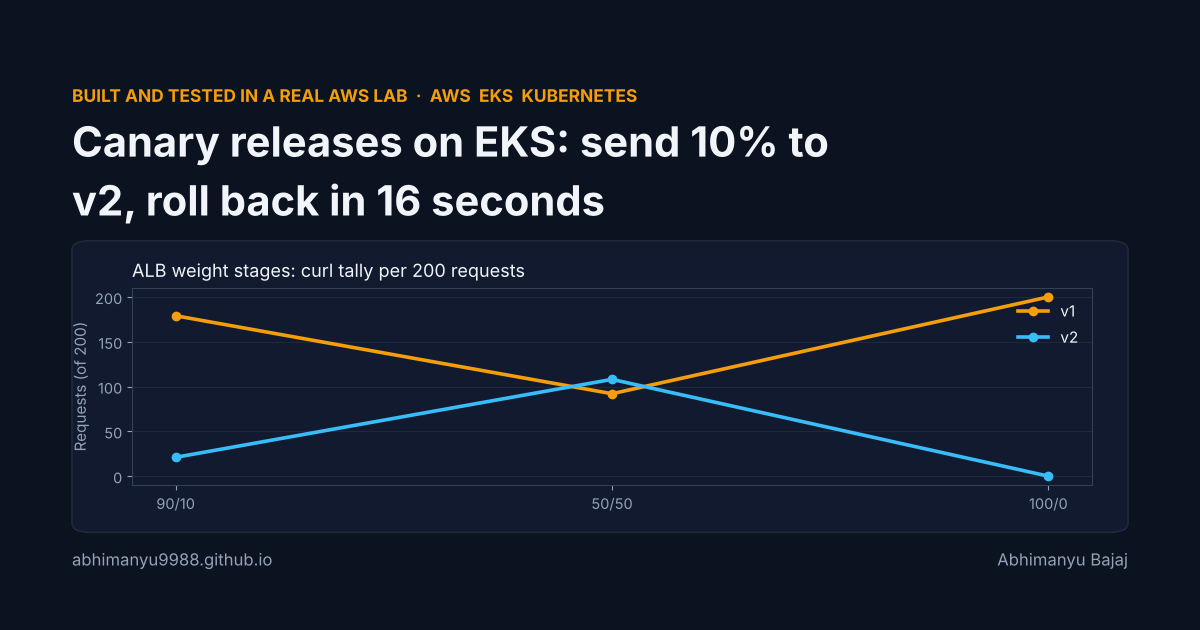
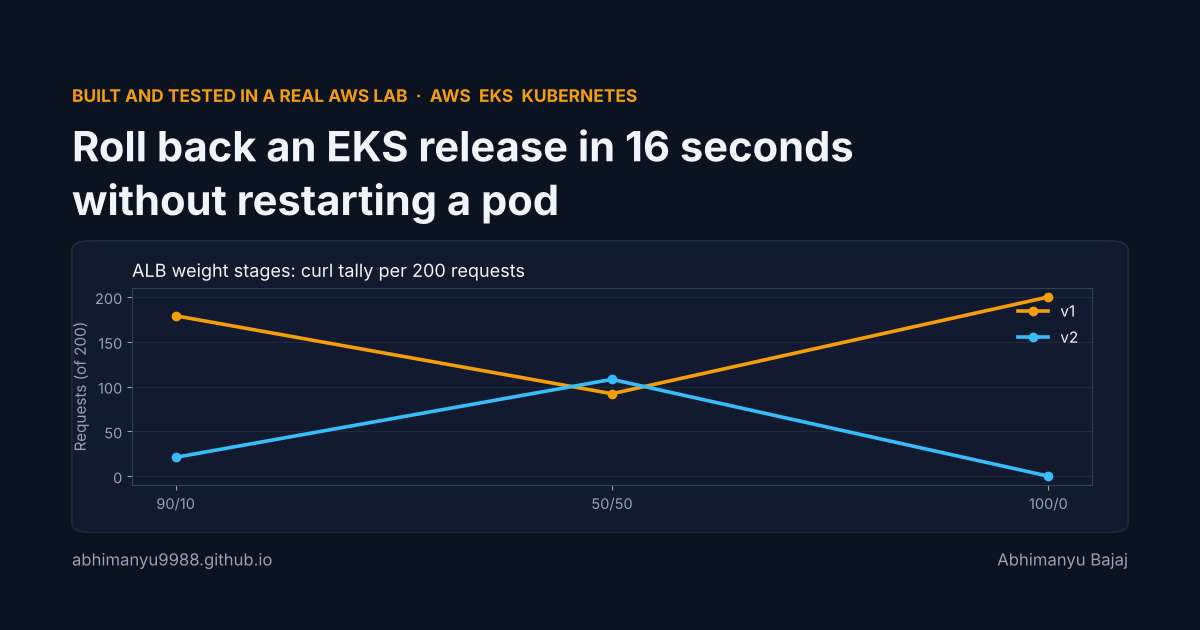
Post: title leads with the payoff; LinkedIn post rewritten to stop the scroll
Claude-Session: https://claude.ai/code/session_01C7ygmpRuA7vZmq6wuTYePv

Changed region(s): [[0.0617, 0.181, 0.7092, 0.3619]]

diff --git a/site/_posts/2026-10-19-eks-canary-releases-alb.md b/site/_posts/2026-10-19-eks-canary-releases-alb.md
@@ -1,12 +1,12 @@
 ---
-title: "Canary releases on EKS: send 10% to v2, roll back in 16 seconds"
+title: "Roll back an EKS release in 16 seconds without restarting a pod"
 description: "Build an EKS lab where the AWS Load Balancer Controller sends 10% of ALB traffic to v2, shifts to 50/50, then rolls back to 100/0 by changing an Ingress annotation."
 image: /assets/posts/eks-canary-releases-alb/cover.png
 image_alt: "Chart of curl tallies per ALB weight stage: v2 gets 21 of 200 at 90/10, 108 at 50/50, and 0 after rollback to 100/0."
 tags: ["aws", "eks", "kubernetes", "devops"]
 channels: ["devto", "hashnode"]
 lab: labs/eks-canary-releases-alb
-linkedin: "Canary EKS releases at 10% on an ALB, with rollback to 0% without redeploying pods.\n\nI built a small EKS lab with two app versions behind the AWS Load Balancer Controller. The ALB listener rule moved from 90/10 to 50/50 to 100/0, and curl tallies showed the split at each step.\n\nIt took 25.4 minutes in my run. The idea is simple: keep v1 and v2 as separate Services, then change the weighted forward action on the Ingress annotation.\n\nI built it in a throwaway AWS lab, and the post has every step.\n{LINKS}\n\n#aws #eks #kubernetes #devops"
+linkedin: "A Kubernetes rollback usually means a redeploy.\nMine took 16 seconds and didn't restart a single pod.\n\nHere's what I built on EKS:\n\n→ v1 and v2 of the app run side by side, each behind its own Service\n→ The AWS Load Balancer Controller turns one Ingress into an ALB with weighted target groups\n→ The traffic split lives in a single Ingress annotation\n\nThen I moved the dial with kubectl:\n90/10: 21 of 200 requests hit v2\n50/50: 108 of 200\n100/0: 0. Fully back on v1 in 16 seconds.\n\nNo rollout. No new pods. Restarts: 0.\n\nWhy it matters: a plain Kubernetes Service splits traffic by pod count, so a real 10% canary would need nine v1 pods for every v2 pod. The ALB gives you an actual dial.\n\nI built and tested it in a throwaway AWS account. Every step, the Terraform and the raw output are in the post:\n{LINKS}\n\nHow do you roll back today: redeploy, or shift traffic?\n\n#aws #eks #kubernetes #devops"
 replies: []
 ---
 ![Chart of curl tallies per ALB weight stage: v2 gets 21 of 200 at 90/10, 108 at 50/50, and 0 after rollback to 100/0.](https://abhimanyu9988.github.io/assets/posts/eks-canary-releases-alb/cover.png)
